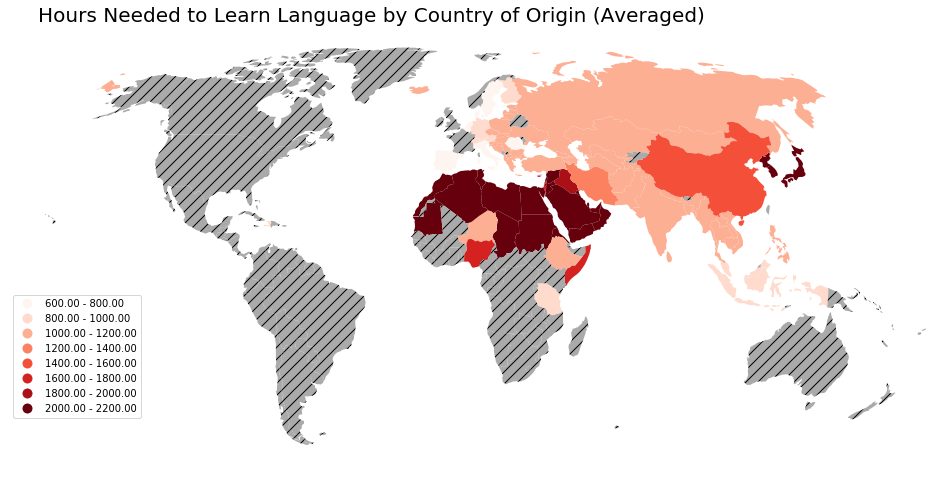
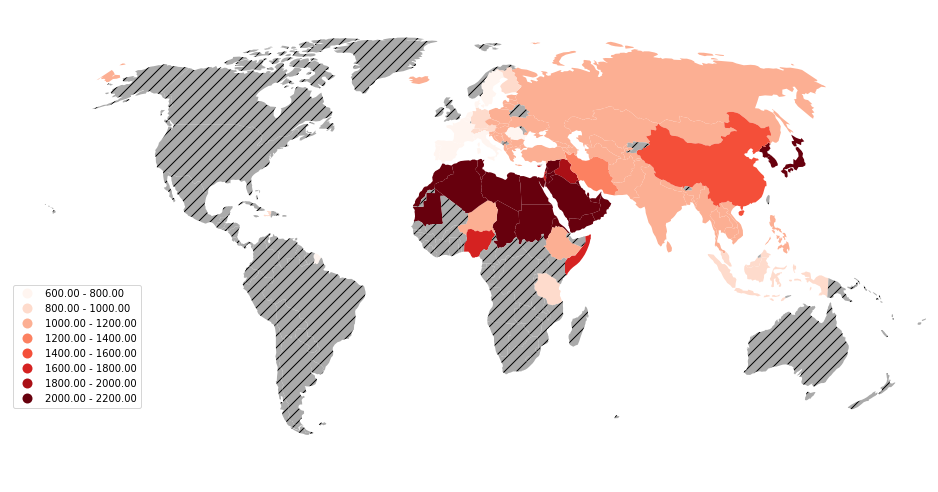
Fixed picture.

diff --git a/_posts/____-__-__-Anthony-Hart-and-the-Quest-for-a-Statistically-Significant-Result-About-the-Difficulty-of-Different-Languages.md b/_posts/____-__-__-Anthony-Hart-and-the-Quest-for-a-Statistically-Significant-Result-About-the-Difficulty-of-Different-Languages.md
@@ -122,6 +122,8 @@ A bit annoying, but not too hard. But now I need to plot this out. I need a shap
 shapefile = 'ne_110m_admin_0_countries.shp'
 
 gdf = gpd.read_file(shapefile)[['ISO_A2', 'geometry']].to_crs('+proj=robin')
+#Fix France
+gdf['ISO_A2'][43]='FR'
 ```
 
 This will give us a large database with lots of entries. One of them, the main geometric data, is a polygon describing the geometry of the country. The other column we're interested in is the `ISO_A2` column, being one of several columns giving country codes. That one contains the ISO alpha-2 country codes, the same codes that the ALS database uses. We can easily merge these together using that column.
